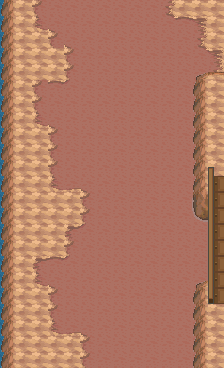
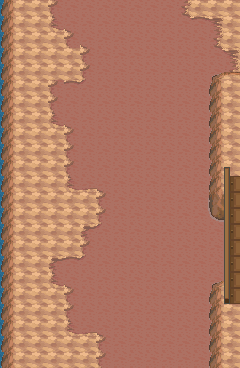
fix(map): art reaches the card stroke
A hairline strip sat between the bottom of the background image and the
card's border on mobile.

The card is sized from the image's own aspect ratio, so objectFit
contain and cover agree on how the art should look -- but they disagree
about rounding. Mobile computes card height in JS as `width / ratio`, a
float that layout then rounds, and contain answers a sub-pixel mismatch
by letterboxing. objectPosition 'top center' pinned the art to the top,
so the entire remainder collected at the bottom as a visible strip.
Desktop uses the native aspectRatio property and mostly dodged this,
which is why the gap came and went.

cover answers the same mismatch by overflowing instead, and the parent's
overflow-hidden clips it. The overflow IS the rounding error, well under
a pixel, so no real art is cropped.

Gated on bgKnown. bgRatio resets to null on every map change, not just
first load, and the card then falls back to the NODE layout's ratio,
which genuinely differs from the image's -- cover there would crop real
art. The fallback keeps contain and accepts the letterbox for the frame
or two before the image reports its size.

diff --git a/src/components/NodeMap.jsx b/src/components/NodeMap.jsx
@@ -78,7 +78,7 @@ function MapSvg({
   mapContainerRef, holdTimerRef, holdActivatedRef,
   setContainerSize, setHoveredNode,
   handleNodeClick, getIcon, getNodeLabel, isReachable, isLocked,
-  mapScale, scaleX, scaleY, mapOffsetX, mapOffsetY, background,
+  mapScale, scaleX, scaleY, mapOffsetX, mapOffsetY, background, bgKnown,
 }) {
   // The SVG stretches to fill the card on both axes (preserveAspectRatio none),
   // so node POSITIONS fill the card even when the card ratio differs from the
@@ -122,10 +122,29 @@ function MapSvg({
       style={{ flex: 1, minHeight: 0, border: borderStyle, boxShadow: shadowStyle }}
     >
       <style>{`@keyframes nodeSpin { to { transform: rotate(360deg); } }`}</style>
+      {/* `cover` once the card is sized to THIS image's ratio, `contain` until
+          then.
+
+          The card is sized from bgRatio, so cover and contain agree on how the
+          art should look — but they disagree about rounding. Card height is
+          `width / ratio`, a float that layout rounds, and contain answers a
+          sub-pixel mismatch by letterboxing; with objectPosition 'top center'
+          the whole remainder collected at the BOTTOM, as a hairline strip
+          between the art and the card's stroke. cover answers the same mismatch
+          by overflowing, which the parent's overflow-hidden clips, so the art
+          reaches the stroke on all four sides. The overflow is the rounding
+          error itself — well under a pixel — so nothing real is cropped.
+
+          That argument only holds while the card actually has the image's
+          ratio. bgRatio resets to null on every map change (not just first
+          load), and the card falls back to the NODE layout's ratio, which
+          genuinely differs — cover there would crop real art. So the fallback
+          keeps contain and accepts the letterbox for the frame or two before
+          the image reports its size. */}
       <img
         src={background}
         alt="map background"
-        style={{ position: 'absolute', inset: 0, width: '100%', height: '100%', objectFit: 'contain', objectPosition: 'top center', imageRendering: 'pixelated', filter: 'brightness(0.9)' }}
+        style={{ position: 'absolute', inset: 0, width: '100%', height: '100%', objectFit: bgKnown ? 'cover' : 'contain', objectPosition: 'top center', imageRendering: 'pixelated', filter: 'brightness(0.9)' }}
       />
       <svg
         width="100%"
@@ -1017,6 +1036,9 @@ export default function NodeMap({ region, starter, character, roster, setRoster,
     handleNodeClick, getIcon, getNodeLabel, isReachable, isLocked,
     mapScale, scaleX, scaleY, mapOffsetX, mapOffsetY,
     background: mapConfig.background,
+    // Whether the card is sized to the image's own ratio yet — gates cover vs
+    // contain on the background (see MapSvg).
+    bgKnown: !!bgRatio,
   }
 
   const swapRoster = swapInRoster(setRoster)
